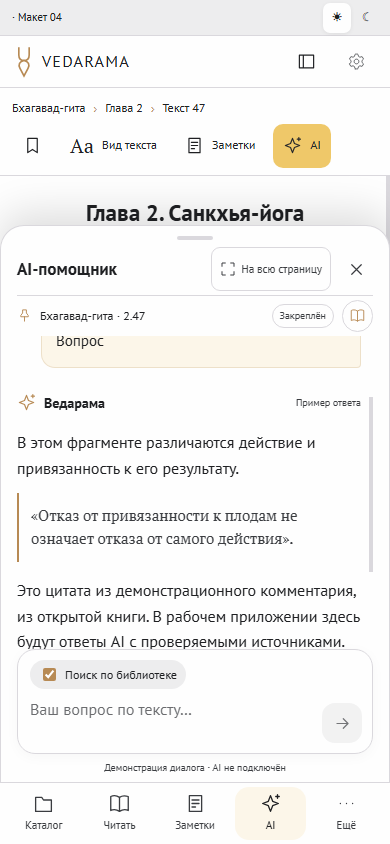
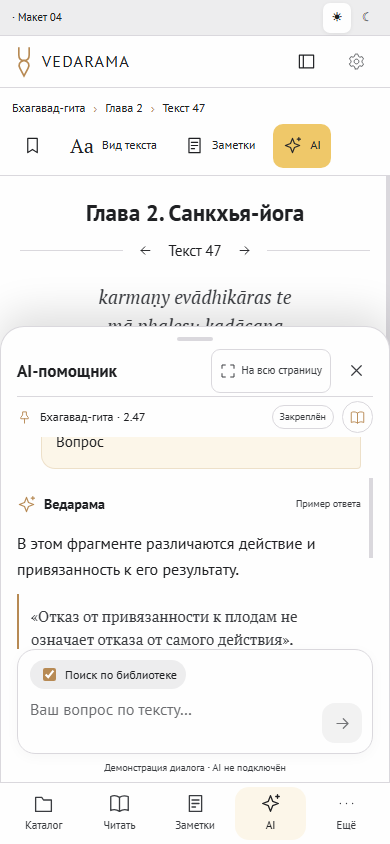
Keep book text visible above the mobile context sheet

diff --git a/mockups/desktop-refresh-v2/light-system/mobile-preview.html b/mockups/desktop-refresh-v2/light-system/mobile-preview.html
@@ -1,1 +1,1 @@
-<!doctype html><html lang="ru"><head><meta charset="utf-8"><meta name="viewport" content="width=device-width,initial-scale=1"><title>Ведарама — мобильный макет</title><style>@font-face{font-family:PT;src:url(assets/PTSans-Regular.ttf)}*{box-sizing:border-box}body{margin:0;font:16px/1.5 PT,sans-serif;background:#ededee;color:#27282b}main{max-width:1000px;margin:auto;padding:28px 18px}header{display:flex;justify-content:space-between;align-items:center;gap:16px;flex-wrap:wrap}h1{font-size:26px;margin:0}p{font-size:14px;max-width:640px}a{color:inherit}.sizes{display:flex;gap:6px;justify-content:center;margin:24px auto 16px}button{font:inherit;border:1px solid #dad8dd;border-radius:9px;padding:8px 16px;background:#fefefe;cursor:pointer}button[aria-pressed=true]{background:#efc869}iframe{display:block;width:390px;height:844px;max-width:100%;margin:0 auto;border:1px solid #dad8dd;border-radius:20px;box-shadow:0 12px 40px #27282b12;background:#fefefe}footer{text-align:center;font-size:12px;margin:18px 0;color:#3a3c40}@media(max-width:500px){main{padding:20px 8px}header,p{padding:0 10px}iframe{border-radius:12px}}</style></head><body><main><header><h1>Ведарама на телефоне</h1><a href="index.html?v=4">Открыть полный макет ↗</a></header><p>Это тот же интерактивный макет в окне телефона. Переключайте тему сверху, а разделы — в нижней навигации.</p><div class="sizes" role="group" aria-label="Ширина экрана"><button data-width="360" aria-pressed="false">360 px</button><button data-width="390" aria-pressed="true">390 px</button><button data-width="430" aria-pressed="false">430 px</button></div><iframe src="index.html?v=4" title="Интерактивный мобильный макет Ведарамы"></iframe><footer>Светлая и тёмная темы · каталог · чтение · справочники · полки и закладки · AI</footer></main><script>document.querySelectorAll('[data-width]').forEach(b=>b.onclick=()=>{document.querySelector('iframe').style.width=b.dataset.width+'px';document.querySelectorAll('[data-width]').forEach(x=>x.setAttribute('aria-pressed',String(x===b)));});</script></body></html>
+<!doctype html><html lang="ru"><head><meta charset="utf-8"><meta name="viewport" content="width=device-width,initial-scale=1"><title>Ведарама — мобильный макет</title><style>@font-face{font-family:PT;src:url(assets/PTSans-Regular.ttf)}*{box-sizing:border-box}body{margin:0;font:16px/1.5 PT,sans-serif;background:#ededee;color:#27282b}main{max-width:1000px;margin:auto;padding:28px 18px}header{display:flex;justify-content:space-between;align-items:center;gap:16px;flex-wrap:wrap}h1{font-size:26px;margin:0}p{font-size:14px;max-width:640px}a{color:inherit}.sizes{display:flex;gap:6px;justify-content:center;margin:24px auto 16px}button{font:inherit;border:1px solid #dad8dd;border-radius:9px;padding:8px 16px;background:#fefefe;cursor:pointer}button[aria-pressed=true]{background:#efc869}iframe{display:block;width:390px;height:844px;max-width:100%;margin:0 auto;border:1px solid #dad8dd;border-radius:20px;box-shadow:0 12px 40px #27282b12;background:#fefefe}footer{text-align:center;font-size:12px;margin:18px 0;color:#3a3c40}@media(max-width:500px){main{padding:20px 8px}header,p{padding:0 10px}iframe{border-radius:12px}}</style></head><body><main><header><h1>Ведарама на телефоне</h1><a href="index.html?v=4.1">Открыть полный макет ↗</a></header><p>Это тот же интерактивный макет в окне телефона. Переключайте тему сверху, а разделы — в нижней навигации.</p><div class="sizes" role="group" aria-label="Ширина экрана"><button data-width="360" aria-pressed="false">360 px</button><button data-width="390" aria-pressed="true">390 px</button><button data-width="430" aria-pressed="false">430 px</button></div><iframe src="index.html?v=4.1" title="Интерактивный мобильный макет Ведарамы"></iframe><footer>Светлая и тёмная темы · каталог · чтение · справочники · полки и закладки · AI</footer></main><script>document.querySelectorAll('[data-width]').forEach(b=>b.onclick=()=>{document.querySelector('iframe').style.width=b.dataset.width+'px';document.querySelectorAll('[data-width]').forEach(x=>x.setAttribute('aria-pressed',String(x===b)));});</script></body></html>

diff --git a/mockups/desktop-refresh-v2/light-system/navigation.css b/mockups/desktop-refresh-v2/light-system/navigation.css
@@ -29,7 +29,7 @@ input,textarea,select{color:var(--ink);font-family:'PT Sans',sans-serif}input::p
  .tool-page .inspector{padding:0 16px;position:static;width:100%;border:0;height:100%;background:var(--white);box-shadow:none}.tool-page .inspector-tabs{min-height:62px;gap:8px}.tool-page .inspector-tabs h2{font-size:23px}.tool-page .inspector-tabs #tool-mode{font-size:12px;padding:8px;min-height:44px}.inspector-tabs #tool-close{min-height:44px;width:34px}
  .tool-page .panel-context{margin:0;padding:6px 0 10px;min-height:44px;font-size:12px}.tool-page .ai-intro{padding:22px 0 18px}.tool-page .ai-intro h2{font-size:27px;margin:12px 0 10px}.tool-page .ai-intro p{font-size:15px}.tool-page .assistant-mark{width:36px;height:36px;margin-bottom:12px}.tool-page .assistant-eyebrow{font-size:10px}.tool-page .suggestions{display:flex;gap:8px}.tool-page .suggestions button{min-height:52px;padding:12px;font-size:14px;align-items:center}.tool-page .ai-scroll{padding-right:0}.chat-heading{min-height:40px}.chat-heading button{min-height:40px;width:40px}
  .ai-composer{padding:10px 12px;border-radius:18px}.ai-composer textarea{height:48px;min-height:44px;max-height:100px;resize:none;font-size:16px;padding:8px 0}.ai-composer small{display:none}.ai-composer>div{position:absolute;right:10px;bottom:10px}.ai-composer{position:relative}.ai-composer textarea{padding-right:44px}.ai-composer #ask-ai{min-height:40px;width:40px;padding:8px;border-radius:13px}.ai-composer>label{font-size:12px;min-height:24px}.ai-disclaimer{padding:7px 0;font-size:10px}.chat-assistant{font-size:16px}.question-bubble{font-size:15px}
- .tool-panel .book-scroll{display:block}.tool-panel .reading-toolbar{display:flex}.tool-panel .inspector{position:fixed;left:0;right:0;top:auto;bottom:var(--bottom-nav);width:100%;height:min(66vh,calc(var(--phone-height) - 150px));padding:10px 16px 0;border:1px solid var(--stroke);border-bottom:0;border-radius:24px 24px 0 0;background:var(--white);box-shadow:0 -12px 40px #0002;z-index:11;display:flex;overflow:hidden}
+ .tool-panel .book-scroll{display:block}.tool-panel .reading-toolbar{display:flex}.tool-panel .inspector{position:fixed;left:0;right:0;top:auto;bottom:var(--bottom-nav);width:100%;height:min(54vh,calc(var(--phone-height) - 150px));padding:10px 16px 0;border:1px solid var(--stroke);border-bottom:0;border-radius:24px 24px 0 0;background:var(--white);box-shadow:0 -12px 40px #0002;z-index:11;display:flex;overflow:hidden}
  .tool-panel .inspector::before{content:'';width:36px;height:4px;border-radius:4px;background:var(--stroke);align-self:center;flex-shrink:0;margin-bottom:4px}.tool-panel .inspector-tabs{background:var(--white);min-height:52px}.tool-panel .inspector-tabs h2{font-size:17px}.tool-panel .inspector-tabs #tool-mode{min-height:44px;font-size:11px}.tool-panel .panel-context{min-height:40px;padding:4px 0}.tool-panel .ai-intro{padding:12px 0}.tool-panel .assistant-mark,.tool-panel .assistant-eyebrow{display:none}.tool-panel .ai-intro h2{font-size:22px;margin:0 0 8px}.tool-panel .suggestions button{min-height:48px}.tool-panel .chat-heading{margin-top:10px}
  .notes-search{margin-top:16px;margin-bottom:16px}.tool-page .notes-toolbar{font-size:12px;padding-bottom:12px}.notes-toolbar button{min-height:44px}.tool-page .note-card{padding:18px;border-radius:16px}.note-caption button{width:40px;height:40px}.note-source{min-height:44px}.note-content{font-size:16px}#note-text{font-size:16px}#notes-panel .panel-hint{font-size:12px}.tool-page #notes-panel{padding-bottom:20px}
  body.mobile-tree .catalog{top:calc(var(--review-height) + var(--header-height));bottom:var(--bottom-nav);padding:0 4px}.mobile-tree .tree button{min-height:44px}.mobile-tree .catalog-title{padding-top:16px}.mobile-tree .catalog-tabs button{min-height:44px;font-size:14px}.mobile-tree .catalog-search input{font-size:16px}.mobile-tree .catalog-search{margin-top:14px}.mobile-tree .personal>button{min-height:44px}

diff --git a/mockups/desktop-refresh-v2/light-system/index.html b/mockups/desktop-refresh-v2/light-system/index.html
@@ -1,5 +1,5 @@
 <!doctype html>
-<html lang="ru"><head><meta charset="utf-8"><meta name="viewport" content="width=device-width,initial-scale=1"><title>Ведарама — макет интерфейса</title><link rel="icon" href="assets/tilaka.svg"><link rel="stylesheet" href="light.css?v=4"><link rel="stylesheet" href="refinements.css?v=4"><link rel="stylesheet" href="experience.css?v=4"><link rel="stylesheet" href="navigation.css?v=4"></head>
+<html lang="ru"><head><meta charset="utf-8"><meta name="viewport" content="width=device-width,initial-scale=1"><title>Ведарама — макет интерфейса</title><link rel="icon" href="assets/tilaka.svg"><link rel="stylesheet" href="light.css?v=4.1"><link rel="stylesheet" href="refinements.css?v=4.1"><link rel="stylesheet" href="experience.css?v=4.1"><link rel="stylesheet" href="navigation.css?v=4.1"></head>
 <body>
 <div class="review-bar"><span><b>Ведарама</b> ·  Макет 04</span><nav aria-label="Состояния макета"><button data-view="read">Чтение</button><button data-view="notes">С заметками</button><button data-view="ai">С AI</button><button data-dialog="brief">Что изменилось</button></nav><div class="preview-controls"><a class="mobile-preview-link" href="mobile-preview.html">Мобильный вид ↗</a><a href="logos/">Варианты логотипа ↗</a><div class="theme-switch" role="group" aria-label="Тема макета"><button data-theme="light" aria-label="Светлая тема">☀ <span>Светлая</span></button><button data-theme="dark" aria-label="Тёмная тема">☾ <span>Тёмная</span></button></div></div></div>
 <div class="application">
@@ -14,4 +14,4 @@
 </div></div>
 <nav class="mobile-nav" aria-label="Основная навигация"><button data-mobile="catalog"><i data-icon="folder"></i><span>Каталог</span></button><button data-mobile="read" class="active"><i data-icon="book"></i><span>Читать</span></button><button data-mobile="references"><i data-icon="search"></i><span>Справочники</span></button><button data-mobile="saved"><i data-icon="bookmark"></i><span>Моё</span></button><button data-mobile="ai"><i data-icon="spark"></i><span>AI</span></button></nav><div class="toast" role="status" hidden></div><div id="selection-actions" hidden><button id="annotate-selection"><i data-icon="note"></i>Заметка к выделению</button></div>
 <dialog id="dialog"><div class="dialog-heading"><h2 id="dialog-title"></h2><button class="icon-button" id="close-dialog" aria-label="Закрыть"><i data-icon="close"></i></button></div><div id="dialog-body"></div></dialog>
-<script src="light.js?v=4"></script><script src="refinements.js?v=4"></script><script src="experience.js?v=4"></script><script src="navigation.js?v=4"></script></body></html>
+<script src="light.js?v=4.1"></script><script src="refinements.js?v=4.1"></script><script src="experience.js?v=4.1"></script><script src="navigation.js?v=4.1"></script></body></html>
